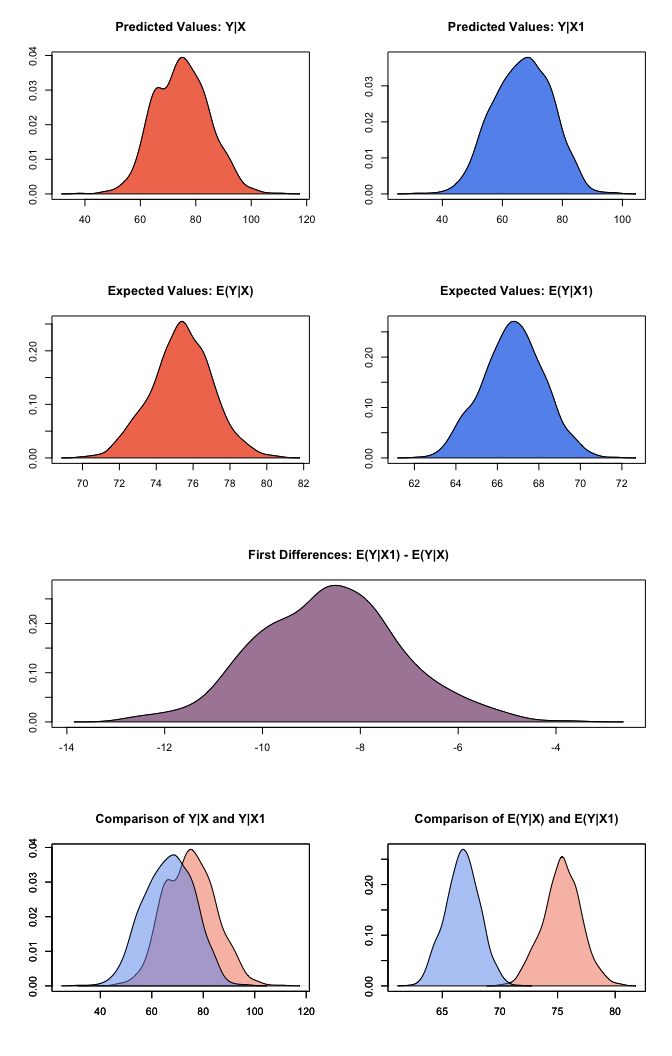
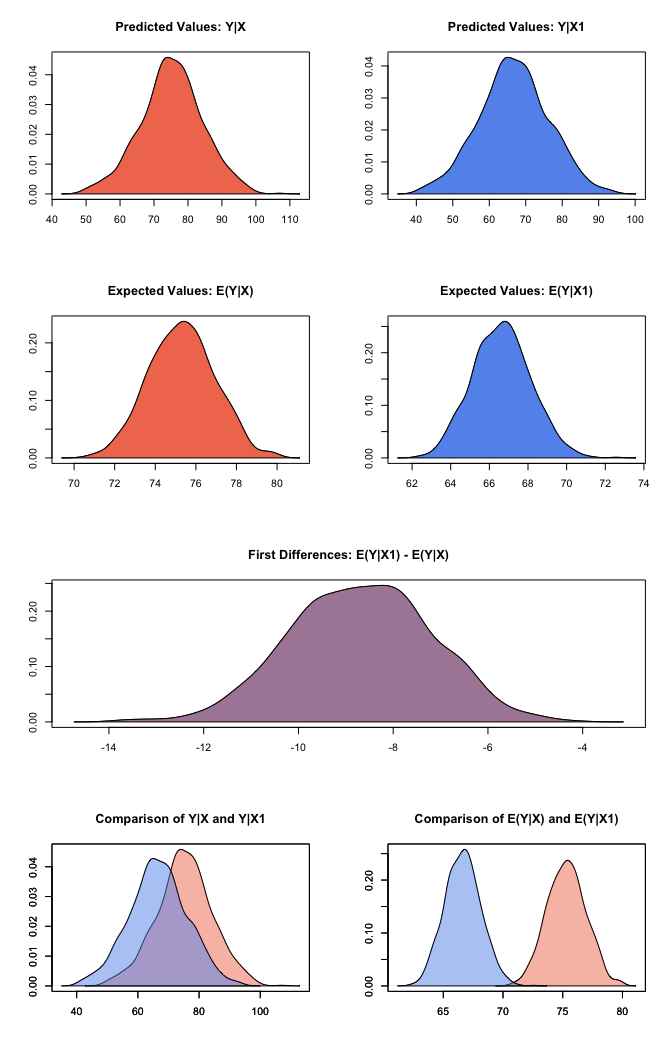
readme build

diff --git a/README.md b/README.md
@@ -179,23 +179,23 @@ After setting our predictor value, we simulate using the `sim()` method:
     ##  sim x :
     ##  -----
     ## ev
-    ##       mean       sd      50%    2.5%   97.5%
-    ## 1 75.38221 1.659304 75.42198 72.0131 78.6433
+    ##       mean       sd      50%     2.5%    97.5%
+    ## 1 75.31897 1.629119 75.30364 72.11731 78.36247
     ## pv
-    ##         mean      sd      50%     2.5%    97.5%
-    ## [1,] 74.9095 9.81625 74.79512 57.09842 93.70146
+    ##          mean       sd      50%     2.5%    97.5%
+    ## [1,] 75.21163 9.136137 75.15398 56.10722 93.40482
     ## 
     ##  sim x1 :
     ##  -----
     ## ev
     ##       mean       sd      50%     2.5%    97.5%
-    ## 1 66.75359 1.468152 66.76786 63.85479 69.57543
+    ## 1 66.63642 1.508525 66.64105 63.81072 69.65937
     ## pv
-    ##          mean       sd      50%     2.5%    97.5%
-    ## [1,] 66.74161 9.628595 66.93027 48.35818 84.25896
+    ##        mean       sd      50%     2.5%    97.5%
+    ## [1,] 66.703 9.516131 66.78697 47.67072 85.11938
     ## fd
     ##        mean       sd       50%      2.5%     97.5%
-    ## 1 -8.628618 1.463135 -8.618177 -11.40652 -5.596616
+    ## 1 -8.682557 1.498084 -8.667594 -11.53609 -5.880353
 
 At this point, we’ve estimated a model, set the predictor value, and
 estimated easily interpretable quantities of interest. The `summary()`
